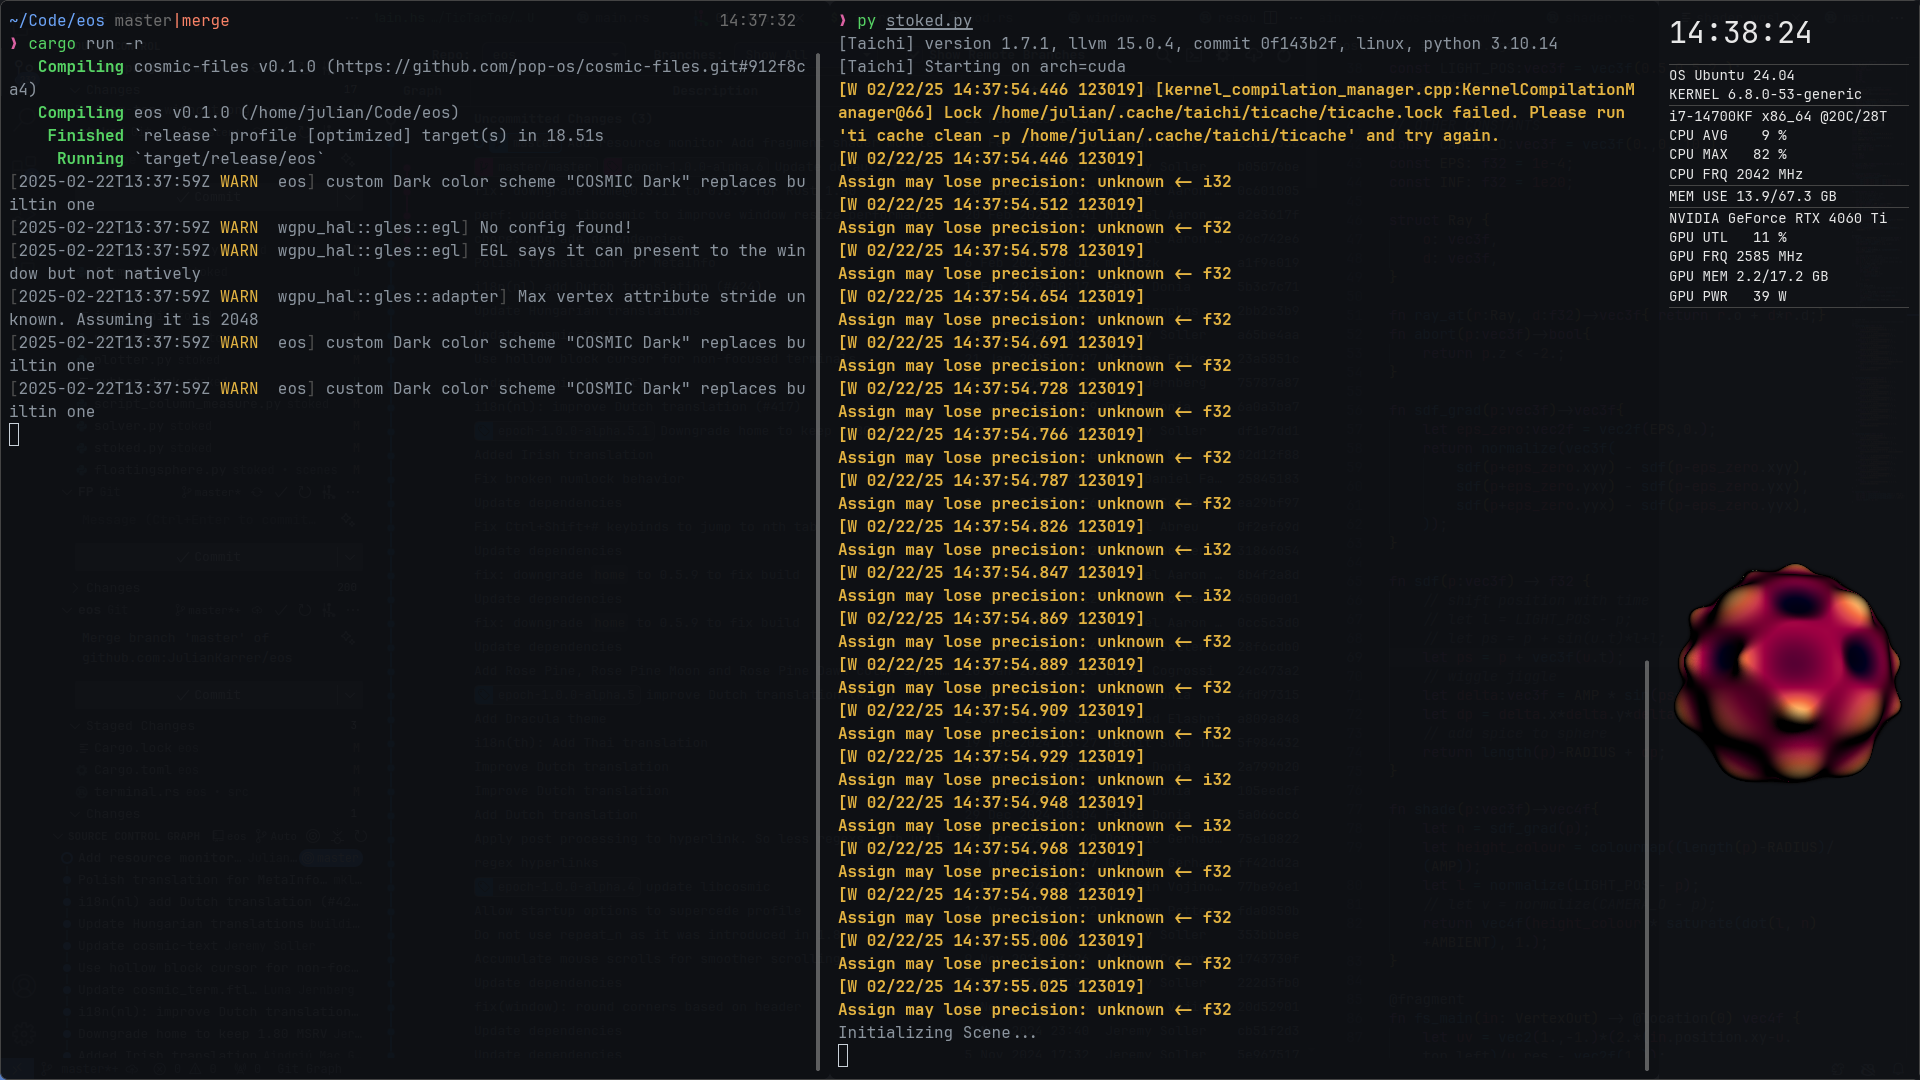
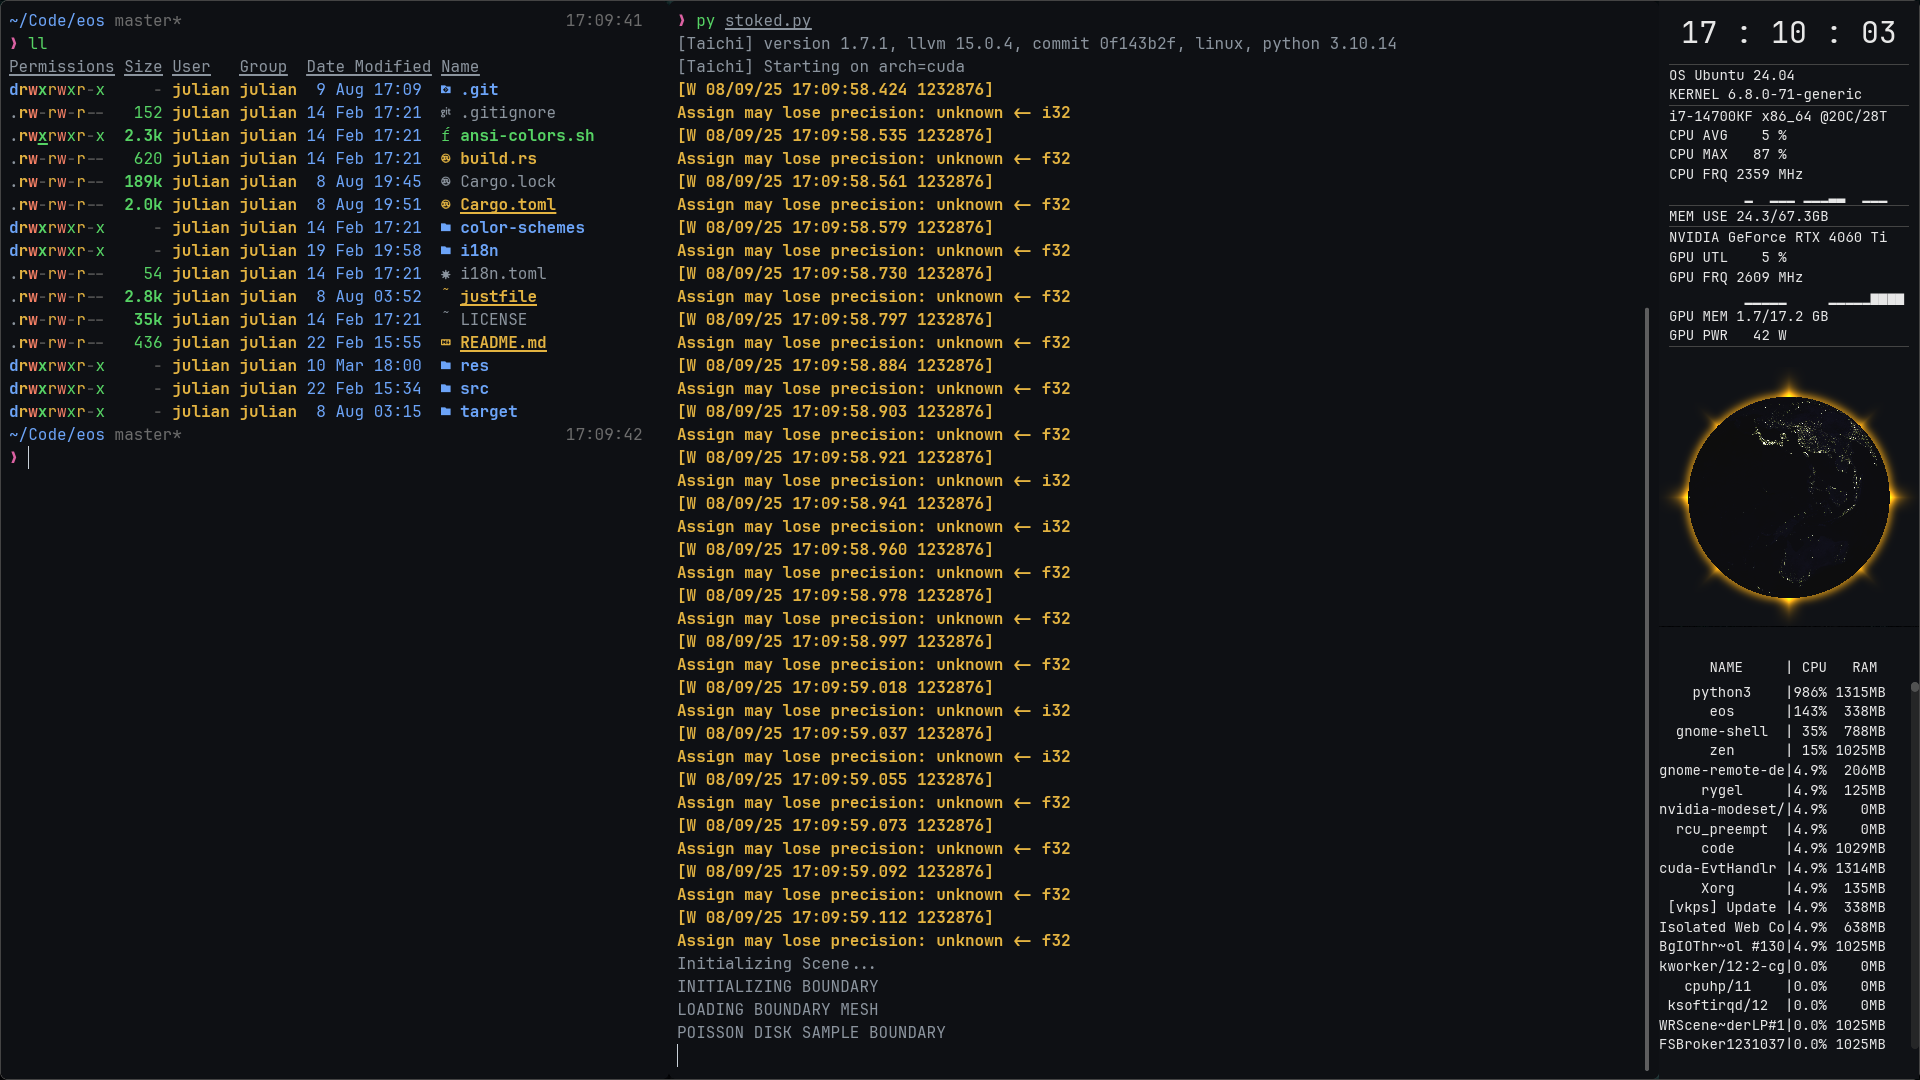
Add ASCII utilization graphs

diff --git a/src/resource_monitor.rs b/src/resource_monitor.rs
@@ -6,10 +6,13 @@ use nvml_wrapper::{enum_wrappers::device::Clock, error::NvmlError, Nvml};
 use sysinfo::{CpuRefreshKind, MemoryRefreshKind, ProcessRefreshKind, ProcessesToUpdate, RefreshKind, System};
 
 use cosmic::iced_widget::{column, container, text, row, horizontal_rule, scrollable, Column, Text};
-
 use crate::{shader::FragmentShaderProgram, App, Message};
 
 const MAX_CPU_FREQ:f32 = 5500.;
+const GRAPH_CHAR_WIDTH:usize = 28;
+const GRAPH_GLYPHS : [char; 9] = [' ','▁','▂','▃','▄','▅','▆','▇','█'];
+
+
 fn byte_to_gb(x:u64)->f32{(x/(1_000_000)) as f32/1000.}
 fn byte_to_mb(x:u64)->u64{x/1_000_000}
 fn truncate(s: &str, max_chars: usize) -> &str {
@@ -109,6 +112,10 @@ pub struct ResourceMonitor {
     process_info: Vec<ProcessInfo>,
     process_sort_by:ProcessBy,
     ram_used:u64,
+
+    // HISTORY
+    cpu_avgs: [f32; GRAPH_CHAR_WIDTH],
+    gpu_avgs: [f32; GRAPH_CHAR_WIDTH],
 }
 
 impl ResourceMonitor{
@@ -161,6 +168,8 @@ impl ResourceMonitor{
             architecture: System::cpu_arch(),
             process_info: vec![],
             process_sort_by: ProcessBy::default(),
+            cpu_avgs: [0.0; GRAPH_CHAR_WIDTH],
+            gpu_avgs: [0.0; GRAPH_CHAR_WIDTH],
         }
     }
 
@@ -172,8 +181,9 @@ impl ResourceMonitor{
         // CPU
         self.sys.refresh_specifics(self.refreshkind);
 
+        let cpu_avg = self.sys.global_cpu_usage();
         self.cpu_info = CpuInfo {
-            cpu_avg: self.sys.global_cpu_usage(),
+            cpu_avg: cpu_avg,
             cpu_max: self.sys.cpus().iter()
                 .map(|cpu|cpu.cpu_usage())
                 .fold(f32::NEG_INFINITY, |a, b| a.max(b)),
@@ -185,11 +195,19 @@ impl ResourceMonitor{
         
         // MEMORY
         self.ram_used = self.sys.used_memory();
+
         // GPU
         let gpudat = gpu_update(&self.nv).ok();
-        self.gpu_info = gpudat.unwrap_or(self.gpu_info)
-    }
+        self.gpu_info = gpudat.unwrap_or(self.gpu_info);
 
+        // GRAPHS
+        self.cpu_avgs.rotate_right(1);
+        self.cpu_avgs[0] = cpu_avg;
+        if let Some(gpudat) = gpudat{
+            self.gpu_avgs.rotate_right(1);
+            self.gpu_avgs[0] = gpudat.util;
+        }
+    }
 
     pub fn update_processes(&mut self){
         self.sys.refresh_processes_specifics(
@@ -256,12 +274,20 @@ impl ResourceMonitor{
         );
     }
 
+    fn get_graph(data: &[f32])->String{
+        data.iter().map(|v| {
+            let fract = 0.01 * v.clamp(0., 100.) * GRAPH_GLYPHS.len() as f32; // 0 to len
+            let index = (fract.round() as usize).clamp(0, GRAPH_GLYPHS.len() - 1);
+            GRAPH_GLYPHS[index]
+        }).collect()
+    }
+
     pub fn view_monitor(&self, app:&App)->iced::widget::Column<'_, Message, cosmic::Theme>{
         let res: iced::widget::Column<'_, Message, cosmic::Theme> = column!(
             // CLOCK
             container(
                 text(
-                    format!("{}", app.current_time.format("%H:%M:%S"))
+                    format!("{}", app.current_time.format("%H : %M : %S"))
                 ).size(30).width(Length::Fill).align_x(Horizontal::Center)
             ).padding(Padding{bottom:10., ..Default::default()}).width(Length::Fill),
             horizontal_rule(2),
@@ -284,6 +310,7 @@ impl ResourceMonitor{
                 self.smooth.cpu_max,
                 self.smooth.cpu_freq as u64,
             )),
+            text(Self::get_graph(&self.cpu_avgs)),
             horizontal_rule(2),
             // MEMORY
             row![
@@ -297,13 +324,13 @@ impl ResourceMonitor{
             horizontal_rule(2),
             // GPU
             text(format!("{}", self.gpu_name)),
-            text(format!("GPU UTL   {:2.0} %\nGPU FRQ {:4} MHz\nGPU MEM {:3.1}/{:3.1} GB\nGPU PWR  {:3.0} W", 
-                self.smooth.gpu_util,
-                self.smooth.gpu_clock as u64,
+            text(format!("GPU UTL   {:2.0} %", self.smooth.gpu_util)),
+            text(format!("GPU FRQ {:4} MHz",self.smooth.gpu_clock as u64)),
+            text(Self::get_graph(&self.gpu_avgs)),
+            text(format!("GPU MEM {:3.1}/{:3.1} GB",
                 byte_to_gb(self.gpu_info.mem_used),
-                byte_to_gb(self.gpu_info.mem_total),
-                self.smooth.gpu_power/1000.,
-            )),
+                byte_to_gb(self.gpu_info.mem_total))),
+            text(format!("GPU PWR  {:3.0} W", self.smooth.gpu_power/1000.)),
             horizontal_rule(2),
         ).padding(Padding{left:10.,right:10.,bottom:20.,..Default::default()});
         res
@@ -326,20 +353,21 @@ impl ResourceMonitor{
             text("   RAM"),
         ];
 
-        let mut column = Column::new();
+        let mut column: Column<'_, Message, cosmic::Theme, cosmic::Renderer> = Column::new();
         for pi in &self.process_info {
             column = column.push(Text::new(pi.to_string()));
         }
 
         column![
-            // spacer:
-            container(text("").width(Length::Fill)).padding(Padding{bottom:20., ..Default::default()}).width(Length::Fill),
             // header:
-            header.width(Length::Fill).height(Length::Shrink),
+            header.width(Length::Fill).height(Length::Shrink)
+                .padding(Padding{top:30., bottom:5., ..Default::default()}),
             // scrollable:
-            scrollable(column).width(Length::Fill).height(Length::Fill)
+            container(scrollable(column).width(Length::Fill))
+                .height(Length::FillPortion(4))
+                .padding(Padding{bottom:30., ..Default::default()}),
         ]
-        .width(Length::Fill).height(Length::Fill).into()
+        .width(Length::Fill).height(Length::Fill)
     }
 }
 

diff --git a/src/main.rs b/src/main.rs
@@ -2877,6 +2877,8 @@ impl Application for App {
             )
             .width(Length::Fixed(width)).height(Length::Fill); 
 
+        
+
         row![
             pane_grid, 
             sidebar,
